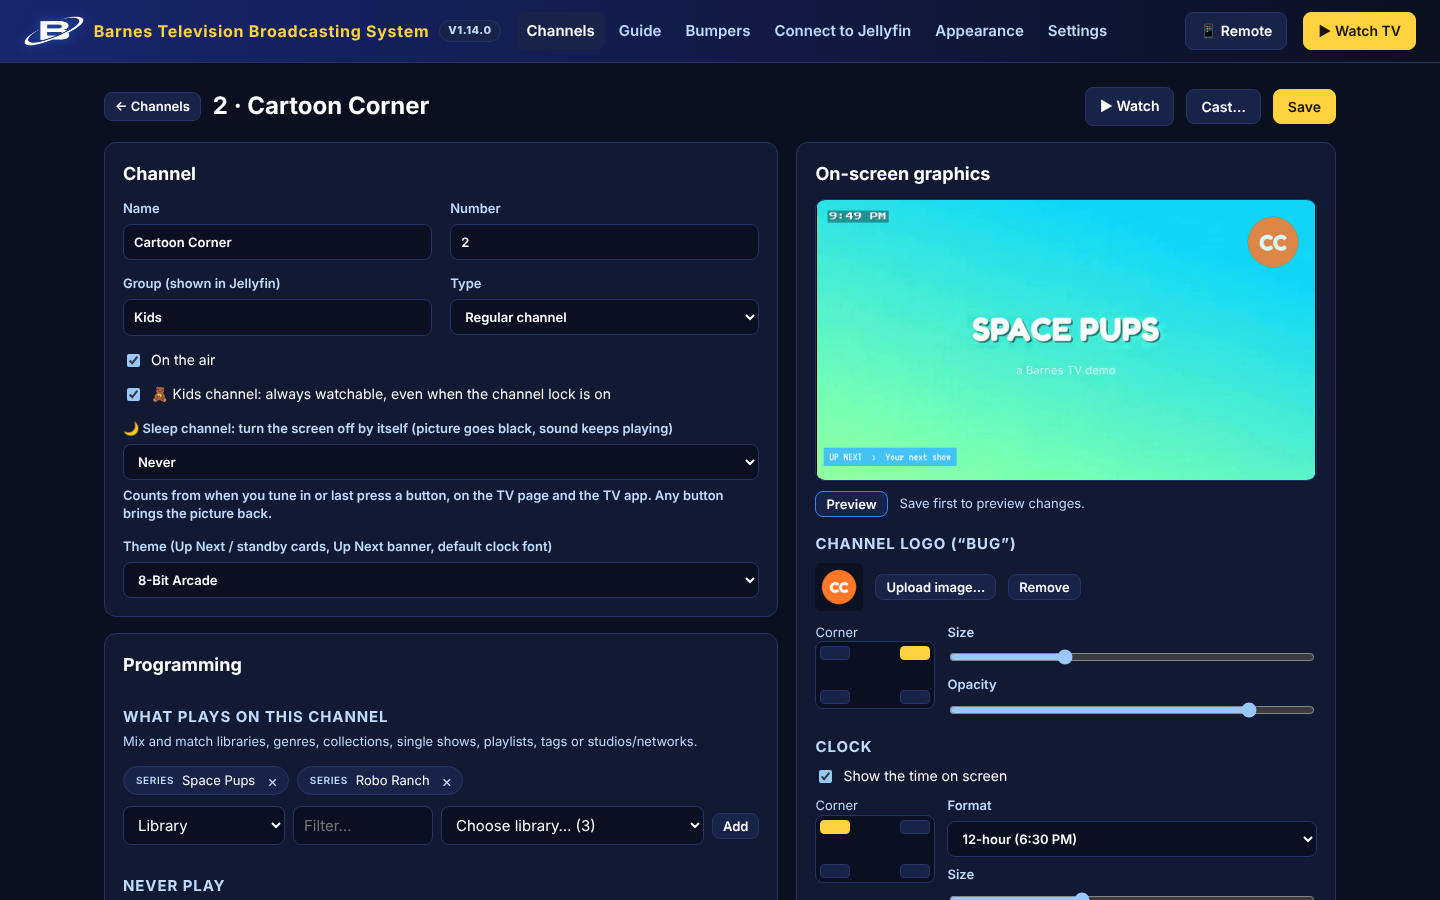
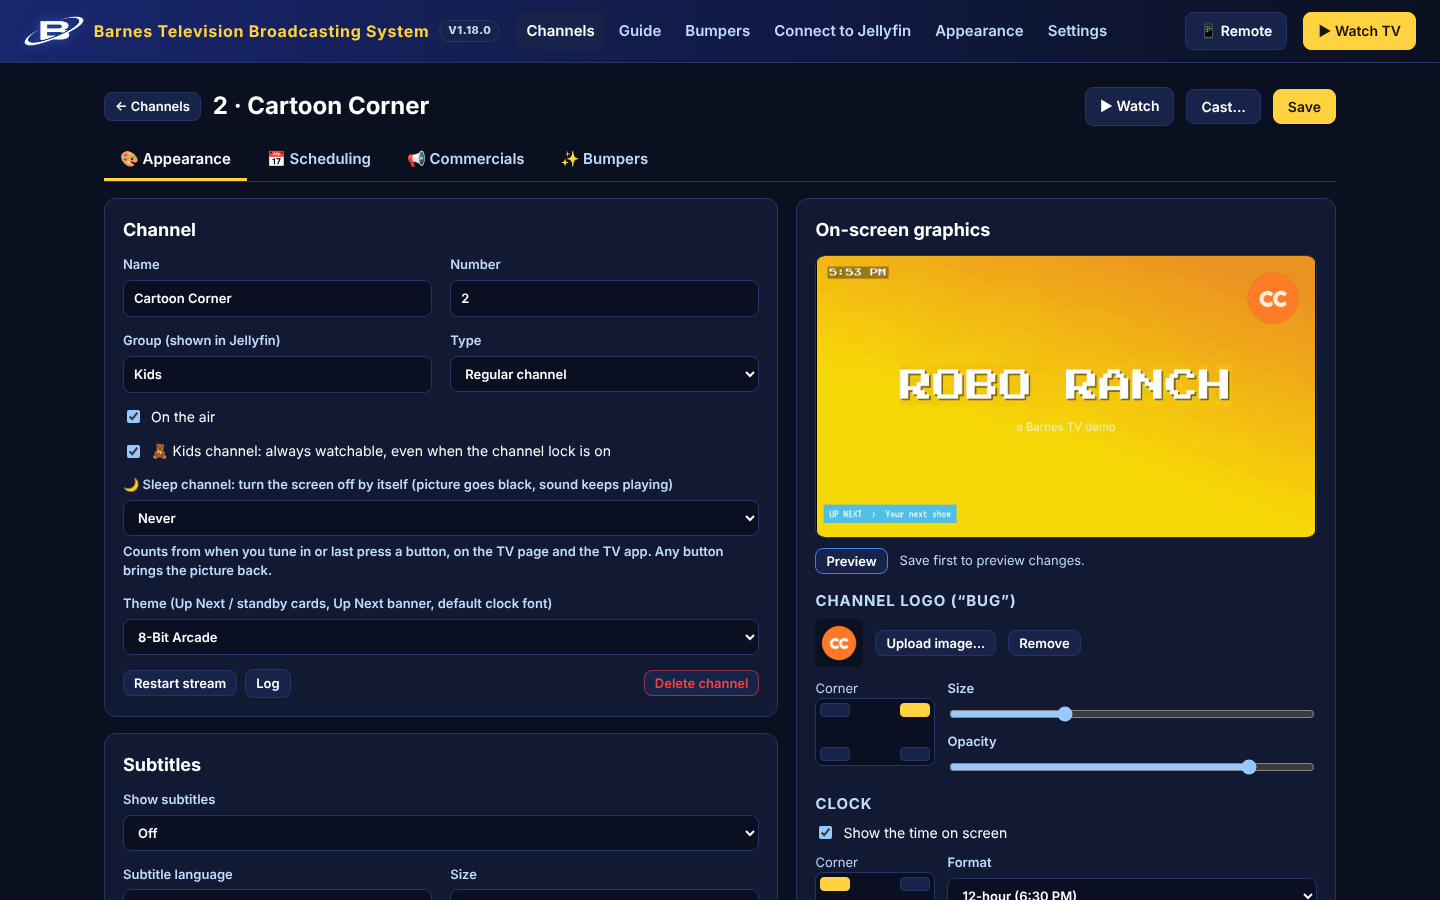
1.18.1: channel editor in tabs
Appearance, Scheduling, Commercials and Bumpers tabs (Appearance and
Guide/Weather for guide and weather channels). The last tab is
remembered, tabs with unsaved changes get a dot, and stream actions move
to the Channel card.

Claude-Session: https://claude.ai/code/session_0159omy6ELcHithk6PViZNWn

diff --git a/web/app.js b/web/app.js
@@ -293,9 +293,12 @@ async function showChannel(id) {
     <button class="btn" id="castbtn">Cast…</button>
     <span class="sub" id="unsaved" style="display:none;color:var(--accent)">Unsaved changes</span>
     <button class="btn primary" id="save">Save</button></div>
+  <div class="tabs" id="chtabs" role="tablist">${(guide ? [["appearance", "🎨 Appearance"], ["content", weather ? "🌤 Weather" : "📺 Guide"]]
+    : [["appearance", "🎨 Appearance"], ["scheduling", "📅 Scheduling"], ["commercials", "📢 Commercials"], ["bumpers", "✨ Bumpers"]])
+    .map(([k, l]) => `<button class="tab" role="tab" data-tab="${k}">${l}</button>`).join("")}</div>
   <div class="editor">
    <div class="stack">
-    <div class="card"><h2>Channel</h2><div class="form">
+    <div class="card" data-tab="appearance"><h2>Channel</h2><div class="form">
       <label class="f">Name<input type="text" id="name" value="${esc(ch.name)}"></label>
       <label class="f">Number<input type="number" id="number" step="0.1" value="${esc(ch.number)}"></label>
       <label class="f">Group (shown in Jellyfin)<input type="text" id="group" value="${esc(ch.group || "")}" placeholder="e.g. Kids"></label>
@@ -309,8 +312,11 @@ async function showChannel(id) {
       <label class="f wide">Theme ${weather ? "(the whole weather channel)" : guide ? "(the whole guide channel)" : "(Up Next / standby cards, Up Next banner, default clock font)"}
         <select id="theme"><option value="">Station theme (${esc(themeName(stationTheme))})</option>
         ${TH.themes.map((t) => `<option value="${t.id}" ${ch.theme === t.id ? "selected" : ""}>${esc(t.name)}</option>`).join("")}</select></label>
-    </div></div>
-    ${weather ? `<div class="card"><h2>🌤 Weather channel</h2><div class="form">
+    </div>
+    <div class="row" style="margin-top:14px;gap:8px"><button class="btn small" id="restart">Restart stream</button>
+      <a class="btn small" href="/api/channels/${ch.id}/log" target="_blank">Log</a><span class="spacer"></span>
+      <button class="btn small danger" id="delete">Delete channel</button></div></div>
+    ${weather ? `<div class="card" data-tab="content"><h2>🌤 Weather channel</h2><div class="form">
       <label class="f">Location<select id="wx_mode">${[["auto", "Automatic (from your internet connection)"], ["zip", "ZIP / postal code"], ["city", "City name"], ["coords", "Exact coordinates"]]
         .map(([v, l]) => `<option value="${v}" ${(WXL.mode || "auto") === v ? "selected" : ""}>${l}</option>`).join("")}</select></label>
       <label class="f wxm" data-m="zip">ZIP / postal code<input type="text" id="wx_zip" value="${esc(WXL.zip || "")}" placeholder="62701"></label>
@@ -338,7 +344,7 @@ async function showChannel(id) {
       <label class="f">Big numbers &amp; headings font<select id="guide_display_font">${fontOptions(ch.guide_display_font, chTheme().fonts.guide_display)}</select></label>
       <div class="fontsample wide" id="guide_sample">72° Partly Cloudy · High 75° · Low 58°</div>
     </div><p class="sub">Forecasts from Open-Meteo, alerts from the US National Weather Service, radar from RainViewer, maps © OpenStreetMap contributors / CARTO.
-      Free for personal use, no accounts or keys. The channel keeps showing the last good forecast if the internet drops.</p></div>` : guide ? `<div class="card"><h2>Guide channel</h2><div class="form">
+      Free for personal use, no accounts or keys. The channel keeps showing the last good forecast if the internet drops.</p></div>` : guide ? `<div class="card" data-tab="content"><h2>Guide channel</h2><div class="form">
       <label class="f wide">Background music (file or folder on the Broadcast server)<input type="text" id="music_path" value="${esc(ch.music_path || "")}" placeholder="D:\\Music\\Smooth Jazz"></label>
       <label class="f">Scroll speed<input type="range" id="guide_scroll_speed" min="10" max="120" value="${ch.guide_scroll_speed || 40}"></label>
       <label class="f">Clock format<select id="guide_clock_fmt">${Object.entries(TH.clock_formats).map(([k, v]) => `<option value="${k}" ${(clock.format || "12h") === k ? "selected" : ""}>${{"12h": "12-hour", "12h_plain": "12-hour, no AM/PM", "12h_sec": "12-hour with seconds", "24h": "24-hour", "24h_sec": "24-hour with seconds"}[k]} (${v})</option>`).join("")}</select></label>
@@ -346,7 +352,7 @@ async function showChannel(id) {
       <label class="f">Clock &amp; channel numbers font<select id="guide_display_font">${fontOptions(ch.guide_display_font, chTheme().fonts.guide_display)}</select></label>
       <div class="fontsample wide" id="guide_sample">Tokyo Night Drive · となりのアニメ</div>
     </div><p class="sub">The guide lists every regular channel that's on the air, with a spotlight on what's playing now.</p></div>` : `
-    <div class="card"><h2>Programming</h2><div class="form">
+    <div class="card" data-tab="scheduling"><h2>Programming</h2><div class="form">
       ${sourcePicker("src", "What plays on this channel", "Mix and match libraries, genres, collections, single shows, playlists, tags or studios/networks.")}
       ${sourcePicker("exc", "Never play", "Optional: anything matching these is removed (e.g. exclude the Horror genre from a kids channel).")}
       <div class="wide"><h3>Item types</h3><div class="row">${["Movie", "Episode", "MusicVideo", "Video"].map((t) =>
@@ -364,30 +370,19 @@ async function showChannel(id) {
       ${sourcePicker("fil", "Filler for the gaps", "When shows start on the hour/half hour, gaps are filled with these (commercials, music videos, shorts ≤ 15 min). Anything left over shows an “Up Next” card.")}
       <label class="f wide">Music under “Up Next” cards (file or folder on the Broadcast server, optional)<input type="text" id="music_path" value="${esc(ch.music_path || "")}"></label>
     </div></div>
-    <div class="card" id="slotcard"><h2>📅 Time slots</h2>
+    <div class="card" data-tab="scheduling" id="slotcard"><h2>📅 Time slots</h2>
       <p class="sub" style="margin-top:0">Shows, movies or collections that air at set times, like “The Simpsons, Mon–Fri 8–9 PM” or
         “a movie every Friday at 8”. Regular programming fills the rest of the day. Changes apply when you save.</p>
       <div id="slotlist"></div>
       <div id="sloted" class="slotedit" style="display:none"></div>
       <div class="row" style="margin-top:8px"><button class="btn" id="slot_add">+ Add a time slot</button></div></div>
-    <div class="card" id="maracard"><h2>🏃 Marathons</h2>
+    <div class="card" data-tab="scheduling" id="maracard"><h2>🏃 Marathons</h2>
       <p class="sub" style="margin-top:0">One show back to back, for 1 to 24 hours. Schedule one up to 7 days ahead. While it's on it takes over
         the channel, including any time slots. Changes apply when you save.</p>
       <div id="maralist"></div>
       <div id="maraed" class="slotedit" style="display:none"></div>
       <div class="row" style="margin-top:8px"><button class="btn" id="mara_add">+ Schedule a marathon</button></div></div>
-    <div class="card" id="poolcard"><h2>📊 What's on this channel</h2>
-      <div class="row"><div class="seg" id="pool_mode">${[["items", "Items"], ["hours", "Hours"], ["plan", "Airtime goal"], ["sched", "Scheduled"]]
-        .map(([k, l]) => `<button class="btn small" data-pm="${k}">${l}</button>`).join("")}</div><span class="spacer"></span><span class="sub" id="pool_total">Loading…</span></div>
-      <div class="poolwrap"><svg id="pool_pie" viewBox="-110 -110 220 220" aria-label="Pool breakdown"></svg><div id="pool_legend"></div></div>
-      <h3>Balance the airtime</h3>
-      <p class="sub" style="margin-top:0">Off by default: every episode and movie gets its turn, so a show with 300 episodes airs far more than one with 10.
-        Slide right to even things out, or give single shows more or less time with their own sliders. Saving rebuilds the schedule after what's on now.</p>
-      <div class="form"><label class="f wide">Even out the shows: <b id="bal_val"></b>
-        <input type="range" id="bal_strength" min="0" max="100" step="5" value="${+((ch.balance || {}).strength) || 0}">
-        <span class="row sub" style="justify-content:space-between"><span>Off (as the pool is)</span><span>Equal time for every show</span></span></label></div>
-      <div class="row"><button class="btn small" id="bal_reset">Reset balancing</button><span class="sub" id="bal_note"></span></div></div>
-    <div class="card"><h2>Subtitles</h2>
+    <div class="card" data-tab="appearance"><h2>Subtitles</h2>
       <div class="form">
         <label class="f wide">Show subtitles<select id="sub_mode">${[["off", "Off"], ["always", "Always, when the show has them"],
           ["foreign", "Only when the audio isn't in my language (e.g. Japanese audio → English subtitles)"],
@@ -405,7 +400,7 @@ async function showChannel(id) {
       <p class="sub">Subtitles are drawn into the picture, so they show on every TV, browser and Chromecast. Text subtitles (SRT, ASS) and
         Blu-ray/DVD picture subtitles both work; styled anime (ASS) subtitles keep their own fonts and colours. Japanese, Chinese and Korean
         subtitles automatically use a font that has those characters.</p></div>
-    <div class="card"><h2>Commercial breaks</h2>
+    <div class="card" data-tab="commercials"><h2>Commercial breaks</h2>
       <label class="check"><input type="checkbox" id="br_on" ${br.enabled ? "checked" : ""}> Interrupt shows with commercial breaks, then pick up right where they left off</label>
       <div class="form" style="margin-top:12px">
         ${sourcePicker("brk", "Commercials come from", "Make a library in Jellyfin (e.g. “Commercials”, Home Videos type) full of short clips and pick it here.")}
@@ -423,7 +418,7 @@ async function showChannel(id) {
         <div class="wide" id="br_comp"></div>
       </div>
       <p class="sub">Breaks are filled with whole commercials up to the length you set. The guide still lists each show as one block, like real TV.</p></div>
-    <div class="card"><h2>Bumpers</h2>
+    <div class="card" data-tab="bumpers"><h2>Bumpers</h2>
       <label class="check"><input type="checkbox" id="bu_on" ${bu.enabled ? "checked" : ""}> Play bumpers</label>
       <div class="row" style="margin-top:10px">
         <label class="check"><input type="checkbox" id="bu_into" ${bu.into_break !== false ? "checked" : ""}> Going into a break</label>
@@ -435,18 +430,27 @@ async function showChannel(id) {
       <div class="row" id="bu_list" style="max-height:240px;overflow:auto"><span class="sub">Loading…</span></div>
       <p class="sub">None ticked = use all of them. “Going into a break” only applies when commercial breaks are on.</p>
       <div class="form">${sourcePicker("bmp", "Video bumpers from Jellyfin (optional)", "Short clips (under 5 minutes) mixed in with the text bumpers at any spot.")}</div></div>`}
-    <div class="card"><h2>Schedule</h2><div class="row" style="margin-bottom:10px">
+   </div>
+   <div class="stack">
+    ${guide ? "" : `<div class="card" data-tab="scheduling"><h2>Schedule</h2><div class="row" style="margin-bottom:10px">
       <span class="sub" id="poolinfo"></span><span class="spacer"></span>
       ${guide ? "" : `<button class="btn small" id="skip" title="Stop what's playing and move on. A show is skipped entirely; an ad or bumper just that one.">⏭ Skip what's on</button>
       <button class="btn small" id="rebuild" title="Re-read the library and reshuffle everything after what is on now">Rebuild schedule</button>
       <button class="btn small" id="rebuild_now" title="Re-read the library and start a fresh schedule right now, replacing what's on too">Rebuild including now</button>`}
-      <button class="btn small" id="restart">Restart stream</button>
-      <a class="btn small" href="/api/channels/${ch.id}/log" target="_blank">Log</a>
-      <button class="btn small danger" id="delete">Delete channel</button></div>
-      <div class="sched" id="sched"><p class="sub">${guide ? `The ${weather ? "weather" : "guide"} channel has no schedule of its own.` : "Loading…"}</p></div></div>
-   </div>
-   <div class="stack">
-    <div class="card"><h2>On-screen graphics</h2>
+</div>
+      <div class="sched" id="sched"><p class="sub">${guide ? `The ${weather ? "weather" : "guide"} channel has no schedule of its own.` : "Loading…"}</p></div></div>`}
+    ${guide ? "" : `<div class="card" data-tab="scheduling" id="poolcard"><h2>📊 What's on this channel</h2>
+      <div class="row"><div class="seg" id="pool_mode">${[["items", "Items"], ["hours", "Hours"], ["plan", "Airtime goal"], ["sched", "Scheduled"]]
+        .map(([k, l]) => `<button class="btn small" data-pm="${k}">${l}</button>`).join("")}</div><span class="spacer"></span><span class="sub" id="pool_total">Loading…</span></div>
+      <div class="poolwrap"><svg id="pool_pie" viewBox="-110 -110 220 220" aria-label="Pool breakdown"></svg><div id="pool_legend"></div></div>
+      <h3>Balance the airtime</h3>
+      <p class="sub" style="margin-top:0">Off by default: every episode and movie gets its turn, so a show with 300 episodes airs far more than one with 10.
+        Slide right to even things out, or give single shows more or less time with their own sliders. Saving rebuilds the schedule after what's on now.</p>
+      <div class="form"><label class="f wide">Even out the shows: <b id="bal_val"></b>
+        <input type="range" id="bal_strength" min="0" max="100" step="5" value="${+((ch.balance || {}).strength) || 0}">
+        <span class="row sub" style="justify-content:space-between"><span>Off (as the pool is)</span><span>Equal time for every show</span></span></label></div>
+      <div class="row"><button class="btn small" id="bal_reset">Reset balancing</button><span class="sub" id="bal_note"></span></div></div>`}
+    <div class="card" data-tab="appearance"><h2>On-screen graphics</h2>
       <div class="preview" id="pv"><div class="hint">Click “Preview” to render a frame with your logo and clock.</div></div>
       <div class="row" style="margin-top:10px"><button class="btn small" id="preview">Preview</button>${weather ? `<select id="pv_slide">${WX_SLIDES.map(([k, l]) => `<option value="${k}">${l.replace(/ \(.*/, "")}</option>`).join("")}</select>` : ""}<span class="sub">Save first to preview changes.</span></div>
       ${guide ? `
@@ -508,6 +512,7 @@ async function showChannel(id) {
 
   let dirty = false;
   function markDirty() {
+    $("#chtabs .tab.active")?.classList.add("changed");     // a dot on the tab with unsaved changes
     if (dirty) return;
     dirty = true;
     $("#save").textContent = "Save changes";
@@ -517,8 +522,25 @@ async function showChannel(id) {
   const pickerBits = /-(q|list|type)$/;
   ["input", "change"].forEach((ev) => $(".editor").addEventListener(ev, (e) => {
     if (e.target.matches("input, select, textarea") && !pickerBits.test(e.target.id || "") && !e.target.closest("[data-nodirty]") &&
-      !["logofile", "hlfile", "pv_slide"].includes(e.target.id)) markDirty();
+      !["logofile", "hlfile", "pv_slide"].includes(e.target.id)) {
+      markDirty();
+    }
   }));
+  // ---- tabs
+  const TABS = $$("#chtabs .tab").map((b) => b.dataset.tab);
+  const showTab = (t) => {
+    if (!TABS.includes(t)) t = TABS[0];
+    $$("#chtabs .tab").forEach((b) => { b.classList.toggle("active", b.dataset.tab === t); b.setAttribute("aria-selected", String(b.dataset.tab === t)); });
+    $$(".editor > .stack > .card[data-tab]").forEach((c) => (c.style.display = c.dataset.tab === t ? "" : "none"));
+    const stacks = $$(".editor > .stack");
+    stacks.forEach((st) => (st.style.display = [...st.children].some((c) => c.style.display !== "none") ? "" : "none"));
+    $(".editor").classList.toggle("single", stacks.filter((x) => x.style.display !== "none").length < 2);
+    try { sessionStorage.setItem("jfb-chtab", t); } catch { /* private mode */ }
+  };
+  $$("#chtabs .tab").forEach((b) => (b.onclick = () => showTab(b.dataset.tab)));
+  let firstTab = "appearance";
+  try { firstTab = sessionStorage.getItem("jfb-chtab") || firstTab; } catch { /* private mode */ }
+  showTab(firstTab);
   $$(".corners button").forEach((x) => x.addEventListener("click", markDirty));
   leaveGuard = (silent) => !dirty || (!silent && confirm("This channel has unsaved changes. Leave without saving?"));
   if (!guide) {
@@ -585,6 +607,7 @@ async function showChannel(id) {
     const typeChanged = d.type !== ch.type;
     await api("PUT", "channels/" + ch.id, d);
     dirty = false;
+    $$("#chtabs .tab.changed").forEach((b) => b.classList.remove("changed"));
     $("#save").textContent = "Save"; $("#save").classList.remove("dirty"); $("#unsaved").style.display = "none";
     $("h1").textContent = `${d.number} · ${d.name}`;
     if (!quiet) toast(d.sources && d.sources.length ? "Saved — building the schedule now" : "Saved");

diff --git a/web/app.css b/web/app.css
@@ -60,6 +60,7 @@ input:focus, select:focus { outline: 2px solid var(--blue); border-color: transp
 .chip button:hover { color: var(--red); }
 .editor { display: grid; grid-template-columns: minmax(0, 1.25fr) minmax(320px, 1fr); gap: 18px; align-items: start; }
 @media (max-width: 960px) { .editor { grid-template-columns: 1fr; } }
+.editor.single { grid-template-columns: minmax(0, 980px); }
 .stack { display: flex; flex-direction: column; gap: 16px; }
 .preview { position: relative; width: 100%; aspect-ratio: 16/9; background: #000; border-radius: 10px; overflow: hidden; border: 1px solid var(--line); }
 .preview img { width: 100%; height: 100%; object-fit: contain; display: block; }
@@ -181,3 +182,10 @@ input[type=color] { width: 100%; height: 38px; border: 1px solid var(--line); bo
 .slotrow select.small { padding: 2px 6px; font-size: 13px; max-width: 320px; }
 .slotedit { margin-top: 10px; padding: 14px; border: 1px solid var(--line); border-radius: 10px; background: var(--panel2); }
 .slotrow .live { color: var(--red); }
+
+.tabs { display: flex; gap: 4px; margin: -4px 0 16px; border-bottom: 1px solid var(--line); overflow-x: auto; }
+.tabs .tab { background: none; border: 0; border-bottom: 3px solid transparent; color: var(--muted); font: inherit; font-weight: 600;
+  padding: 10px 16px 9px; cursor: pointer; white-space: nowrap; position: relative; }
+.tabs .tab:hover { color: var(--text); }
+.tabs .tab.active { color: var(--text); border-bottom-color: var(--accent); }
+.tabs .tab.changed::after { content: ""; position: absolute; top: 9px; right: 6px; width: 7px; height: 7px; border-radius: 50%; background: var(--accent); }

diff --git a/jfbroadcast/__init__.py b/jfbroadcast/__init__.py
@@ -2,4 +2,4 @@
 
 BRAND = "Barnes Television Broadcasting System"
 BRAND_SHORT = "Barnes TV"
-__version__ = "1.18.0"
+__version__ = "1.18.1"

diff --git a/README.md b/README.md
@@ -36,7 +36,7 @@ that already comes with Jellyfin.
 
 | | |
 |---|---|
-| <img src="docs/screenshots/admin-channels.png" alt="Channel list"><br><sub>Every channel at a glance, with what's on now.</sub> | <img src="docs/screenshots/admin-channel.png" alt="Channel editor"><br><sub>Building a channel: sources, logo, clock, breaks and a live preview.</sub> |
+| <img src="docs/screenshots/admin-channels.png" alt="Channel list"><br><sub>Every channel at a glance, with what's on now.</sub> | <img src="docs/screenshots/admin-channel.png" alt="Channel editor"><br><sub>Editing a channel: Appearance, Scheduling, Commercials and Bumpers tabs, with a live preview.</sub> |
 | <img src="docs/screenshots/admin-commercials.png" alt="Commercial compilation review"><br><sub>Long commercial compilations are split into separate ads automatically.</sub> | <img src="docs/screenshots/admin-bumpers.png" alt="Bumper library"><br><sub>60+ built-in bumpers, including ones that quote the weather.</sub> |
 | <img src="docs/screenshots/admin-branding.png" alt="Branding"><br><sub>Rebrand everything with your own station name and logos.</sub> | <img src="docs/screenshots/admin-balance.png" alt="Channel pool breakdown"><br><sub>What each channel is made of, with optional airtime balancing per show.</sub> |
 | <img src="docs/screenshots/admin-timeslots.png" alt="Time slots"><br><sub>Time slots: a show at set times, picking up with the next episode.</sub> | <img src="docs/screenshots/admin-marathons.png" alt="Marathons"><br><sub>Marathons: one show back to back for up to 24 hours.</sub> |
@@ -170,6 +170,17 @@ IP. You can pin that address under **Settings → Address Jellyfin uses to reach
 
 ## Building channels: recipes
 
+A channel's page is split into four tabs:
+
+- **🎨 Appearance:** name, number, group, theme, sleep timer, subtitles, the channel logo, the clock and the "Up next"
+  banner, with a live preview. Restart stream, Log and Delete channel are here too.
+- **📅 Scheduling:** what plays, the order, start times, time slots, marathons, the pool breakdown and the live schedule.
+- **📢 Commercials:** commercial breaks and compilation splitting.
+- **✨ Bumpers:** which bumpers play, where and how often.
+
+Guide and weather channels have **Appearance** and **Guide** / **Weather** tabs. The page remembers the last tab you
+used, and a dot on a tab marks unsaved changes. One **Save** button saves all the tabs.
+
 | Channel | Sources | Order | Start times | Extras |
 |---|---|---|---|---|
 | **Saturday Morning Cartoons** | Genre *Animation*, with Genre *Horror* excluded | Rotate shows | Half hour | Filler: a "Commercials" library of old ads |
@@ -202,7 +213,7 @@ return to the original behavior.
 
 ### Time slots
 
-Under **Edit channel → Time slots**, **+ Add a time slot** puts something on at set times. Regular programming fills
+Under **Edit channel → Scheduling → Time slots**, **+ Add a time slot** puts something on at set times. Regular programming fills
 the rest of the day. For each slot you choose:
 
 - **What plays:** a series, collection, playlist, genre, or anything else you can add to a channel. It doesn't have to
@@ -236,7 +247,7 @@ page. Saving re-plans the schedule, starting after whatever is on now.
 
 ### Marathons
 
-Under **Edit channel → Marathons**, **+ Schedule a marathon** puts one show on back to back. You choose:
+Under **Edit channel → Scheduling → Marathons**, **+ Schedule a marathon** puts one show on back to back. You choose:
 
 - **Which show:** usually a single series. A collection or playlist also works.
 - **Day and start time:** up to 7 days ahead.
@@ -286,7 +297,7 @@ cut or re-encoded.
 - Scanning reads the whole file once, one file at a time, at low priority. Expect roughly a tenth to a third of the
   video's length per file, depending on resolution and your CPU. Ads become available as files finish.
 - Files with chapter marks at each ad use those instead.
-- The channel's **Commercial breaks** card lists every compilation and how many ads were found. **Review** shows one
+- The channel's **Commercials** tab lists every compilation and how many ads were found. **Review** shows one
   picture from the start of each ad. Odd lengths are outlined, because those are usually two ads glued together or
   one ad split in two. **Rescan** scans a file again, and **Don't split** plays a file as one piece (only if it's 10
   minutes or less).
@@ -555,7 +566,7 @@ font (the bundled Maru Gothic if Windows doesn't have one).
 ## Weather channel
 
 Add a channel and set **Type** to **Weather channel**, then save. It's drawn live like the guide channel and rotates
-through these screens (tick the ones you want, in the channel's **Weather channel** card):
+through these screens (tick the ones you want, in the channel's **Weather** tab):
 
 - **Current conditions**: temperature, sky, feels-like, humidity, dew point, wind and gusts, pressure, visibility, UV
   and cloud cover, plus today's high and low and sunrise and sunset.
@@ -569,7 +580,7 @@ through these screens (tick the ones you want, in the channel's **Weather channe
   and pick up bugs, birds, dust and temperature layers. Unfiltered, that shows up as grey-blue static across the map
   and beige rings around each radar site. By default anything below 10 dBZ is left out, which removes the static and
   keeps drizzle and light snow. Lone specks are cleaned up too, and what's left is drawn in the standard NWS colors
-  that match the legend. Change it with **Radar: hide weak echoes** in the channel's **Weather channel** card, from
+  that match the legend. Change it with **Radar: hide weak echoes** in the channel's **Weather** tab, from
   **Show everything** (the raw radar) up to **Below 20 dBZ** (rain only).
 - **Future radar** (US): forecast radar for the next 3 hours, every 30 minutes, from NOAA's HRRR model, clearly
   marked FORECAST. Outside the US this screen is skipped: RainViewer ended its free forecast radar in January 2026.
